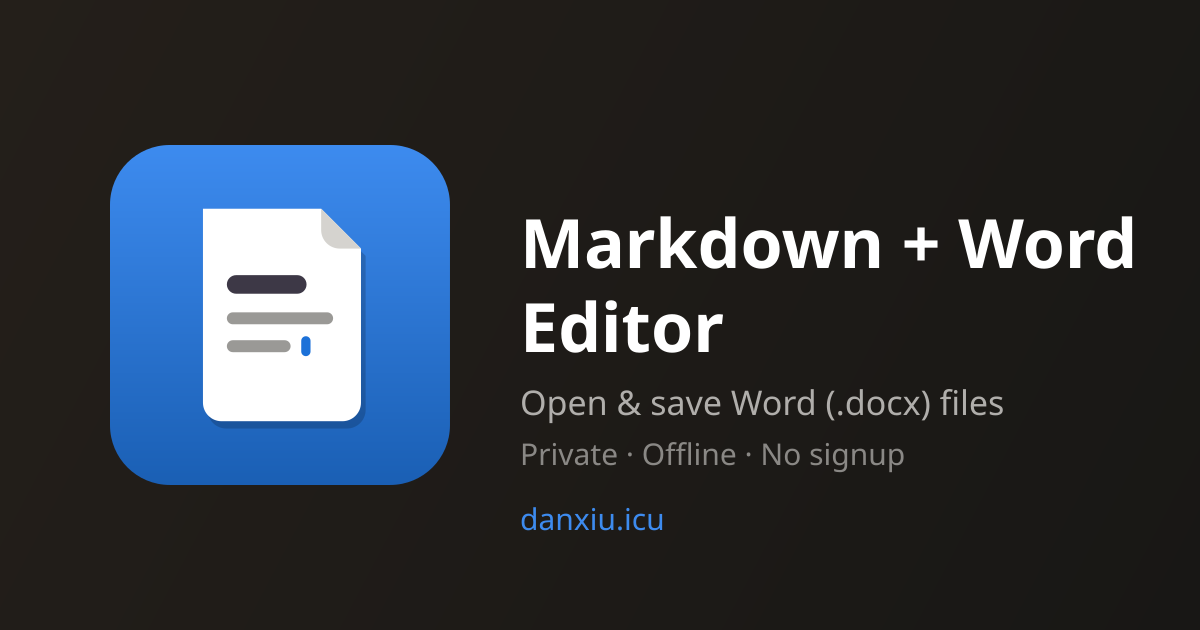
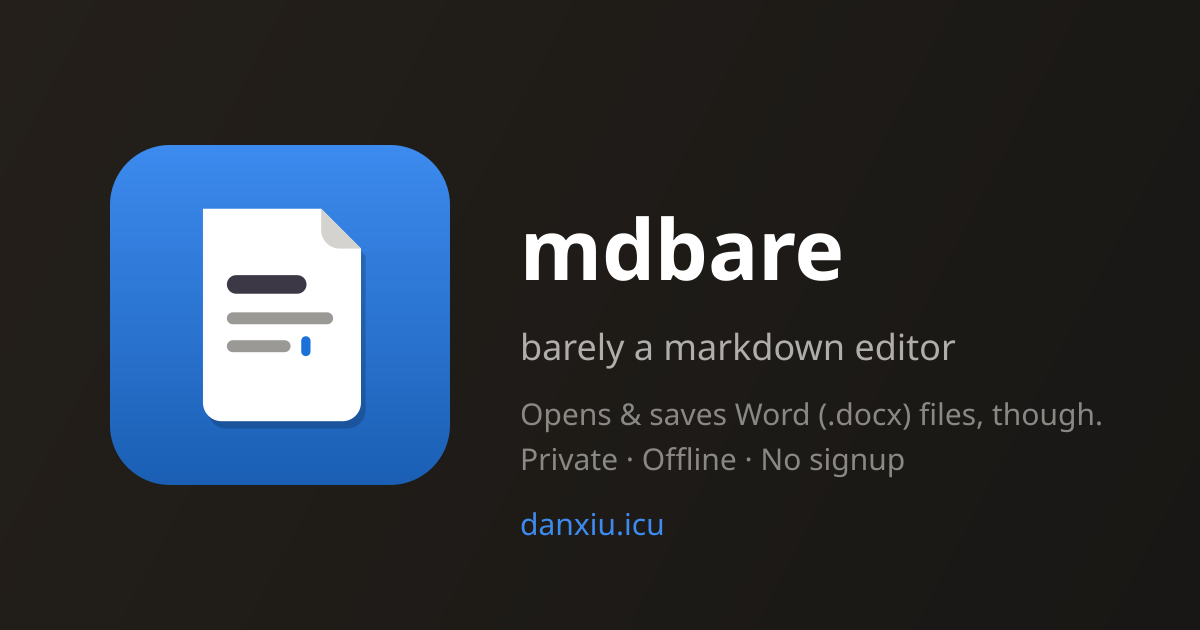
Rebrand to mdbare; add draggable split-pane divider
- Rename product to mdbare (title, manifest, og tags, README, og-image)
- Replace textarea native resize with a divider between panes:
  dragging resizes editor and preview together (15%-85% clamp),
  recomputing pretext-based editor height during drag

diff --git a/index.html b/index.html
@@ -3,16 +3,16 @@
 <head>
   <meta charset="UTF-8">
   <meta name="viewport" content="width=device-width, initial-scale=1.0">
-  <title>MD Editor — Markdown editor that opens &amp; saves Word files</title>
+  <title>mdbare</title>
   <meta name="description" content="Free, private Markdown editor in your browser. Open and export Word (.docx) files, live synced preview, works offline as a PWA. No signup — files never leave your device.">
   <link rel="canonical" href="https://danxiu.icu/">
   <meta property="og:type" content="website">
   <meta property="og:url" content="https://danxiu.icu/">
-  <meta property="og:title" content="Markdown + Word Editor">
-  <meta property="og:description" content="Open &amp; save Word (.docx) files as Markdown. Private, offline, no signup.">
+  <meta property="og:title" content="mdbare — barely a markdown editor">
+  <meta property="og:description" content="Opens &amp; saves Word (.docx) files, though. Private, offline, no signup.">
   <meta property="og:image" content="https://danxiu.icu/og-image.png">
   <meta name="twitter:card" content="summary_large_image">
-  <meta name="twitter:title" content="Markdown + Word Editor">
+  <meta name="twitter:title" content="mdbare — barely a markdown editor">
   <meta name="twitter:description" content="Open &amp; save Word (.docx) files as Markdown. Private, offline, no signup.">
   <meta name="twitter:image" content="https://danxiu.icu/og-image.png">
   <link rel="icon" href="favicon.ico" sizes="16x16 32x32 48x48">
@@ -143,6 +143,17 @@
       border-right: 1px solid var(--border);
     }
 
+    .divider {
+      width: 5px;
+      flex-shrink: 0;
+      align-self: stretch;
+      cursor: col-resize;
+      background: transparent;
+      transition: background 0.15s;
+    }
+
+    .divider:hover { background: var(--accent); }
+
     .preview-pane {
       flex: 1;
       min-width: 0;
@@ -177,6 +188,7 @@
       background: var(--bg);
       color: var(--text);
       caret-color: var(--accent);
+      resize: none;
       max-height: calc(100vh - 100px);
       overflow-y: auto;
       min-height: calc(100vh - 100px);
@@ -321,6 +333,7 @@
       <div class="pane-label">Markdown</div>
       <textarea id="editor" placeholder="Start typing markdown..."></textarea>
     </div>
+    <div class="divider" id="divider"></div>
     <div class="preview-pane">
       <div class="pane-label">Preview</div>
       <div id="preview"></div>
@@ -459,6 +472,41 @@
 
     editor.addEventListener('scroll', () => syncScrollFromTo(editor, preview));
     preview.addEventListener('scroll', () => syncScrollFromTo(preview, editor));
+
+    // ---- Split-pane divider ----
+    // Dragging the divider sets the editor pane's width as a percentage of the
+    // container; the preview pane keeps flex:1 and takes the remaining space,
+    // so both sides resize together.
+
+    const divider = document.getElementById('divider');
+    const editorPane = document.querySelector('.editor-pane');
+    const editorContainer = document.querySelector('.editor-container');
+
+    divider.addEventListener('pointerdown', e => {
+      e.preventDefault();
+      divider.setPointerCapture(e.pointerId);
+      document.body.style.cursor = 'col-resize';
+      document.body.style.userSelect = 'none';
+
+      const onMove = ev => {
+        const rect = editorContainer.getBoundingClientRect();
+        const frac = Math.min(0.85, Math.max(0.15, (ev.clientX - rect.left) / rect.width));
+        editorPane.style.flex = 'none';
+        editorPane.style.width = (frac * 100) + '%';
+        // The editor's wrapped line count (and thus its height) depends on the
+        // new width; the preview reflows on its own and needs no re-render.
+        getEditorMetrics();
+        autoGrowEditor();
+      };
+      const onUp = () => {
+        document.body.style.cursor = '';
+        document.body.style.userSelect = '';
+        divider.removeEventListener('pointermove', onMove);
+        divider.removeEventListener('pointerup', onUp);
+      };
+      divider.addEventListener('pointermove', onMove);
+      divider.addEventListener('pointerup', onUp);
+    });
 
     btnNew.addEventListener('click', () => {
       // Open a fresh editor in a new tab instead of clearing the current one,

diff --git a/README.md b/README.md
@@ -1,10 +1,12 @@
-# Markdown + Word Editor
+# mdbare
+
+Barely a markdown editor. Opens and saves Word files, though.
 
 A free, private markdown editor that runs entirely in your browser — and speaks Word.
 
 **Try it: https://danxiu.icu**
 
-![Markdown + Word Editor](og-image.png)
+![mdbare — barely a markdown editor](og-image.png)
 
 ## Features
 
